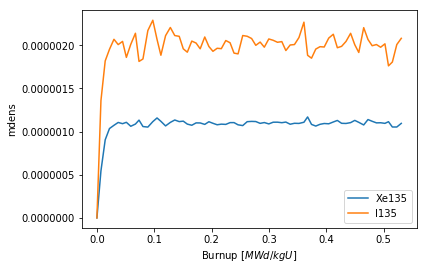
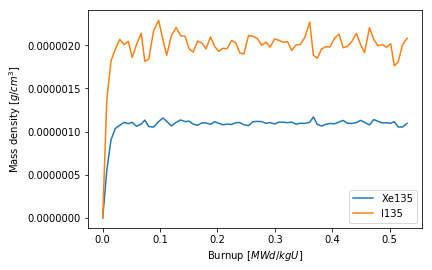
[ENH] Better axis-labeling for depletion plots (#182)
Using the units and quantities that the values in the depletion
output represent, e.g. adens -> atomic density [#/b-cm],
depletion-related plots now have better default axis
labels. This applies for plots on DepletedMaterial,
DepletionReader, and their sampled variants.

diff --git a/serpentTools/samplers/depletion.py b/serpentTools/samplers/depletion.py
@@ -10,7 +10,7 @@ from numpy import zeros, zeros_like
 from matplotlib import pyplot
 
 from serpentTools.messages import SamplerError, warning
-from serpentTools.plot import magicPlotDocDecorator
+from serpentTools.plot import magicPlotDocDecorator, formatPlot, DEPLETION_PLOT_LABELS
 from serpentTools.objects.materials import DepletedMaterialBase
 from serpentTools.parsers.depletion import DepletionReader, DepPlotMixin
 from serpentTools.samplers import Sampler, SampledContainer, SPREAD_PLOT_KWARGS
@@ -198,7 +198,7 @@ class SampledDepletedMaterial(SampledContainer, DepletedMaterialBase):
     @magicPlotDocDecorator
     def plot(self, xUnits, yUnits, timePoints=None, names=None, ax=None,
              sigma=3, xlabel=None, ylabel=None, logx=False,
-             logy=False, loglog=False, legend=False, labelFmt=None, **kwargs):
+             logy=False, loglog=False, legend=False, ncol=1, labelFmt=None, **kwargs):
         """
         Plot the average of some data vs. time for some or all isotopes.
 
@@ -229,6 +229,7 @@ class SampledDepletedMaterial(SampledContainer, DepletedMaterialBase):
         {logy}
         {loglog}
         {legend}
+        {ncol}
         {matLabelFmt}
         {kwargs} :py:func:`matplotlib.pyplot.errorbar`
 
@@ -269,15 +270,10 @@ class SampledDepletedMaterial(SampledContainer, DepletedMaterialBase):
             ax.errorbar(xVals, yVals[row], yerr=yUncs[row], xerr=xUncs,
                         label=labels[row], **kwargs)
 
-        # format the plot
-        if legend:
-            ax.legend()
-        ax = sigmaLabel(ax, xlabel or self.PLOT_XLABELS[xUnits],
-                        ylabel or yUnits, sigma)
-        if loglog or logx:
-            ax.set_xscale('log')
-        if loglog or logy:
-            ax.set_yscale('log')
+        ax = sigmaLabel(ax, xlabel or DEPLETION_PLOT_LABELS[xUnits],
+                        ylabel or DEPLETION_PLOT_LABELS[yUnits], sigma)
+        formatPlot(ax, legend=legend, ncol=ncol, loglog=loglog, logx=logx,
+                   logy=logy)
         return ax
 
     @magicPlotDocDecorator
@@ -339,13 +335,10 @@ class SampledDepletedMaterial(SampledContainer, DepletedMaterialBase):
             plotData = self._slice(sampledData[n], rows, cols)[0]
             ax.plot(xVals, plotData, **SPREAD_PLOT_KWARGS)
         ax.plot(xVals, primaryData, label='Mean value')
-        ax = sigmaLabel(ax, xlabel or self.PLOT_XLABELS[xUnits], ylabel or yUnits)
-        if loglog or logx:
-            ax.set_xscale('log')
-        if loglog or logy:
-            ax.set_yscale('log')
-        if legend:
-            ax.legend()
+
+        ax = sigmaLabel(ax, xlabel or DEPLETION_PLOT_LABELS[xUnits], 
+                        ylabel or DEPLETION_PLOT_LABELS[yUnits])
+        formatPlot(ax, legend=legend, logx=logx, logy=logy, loglog=loglog)
         return ax
 
 

diff --git a/serpentTools/parsers/depletion.py b/serpentTools/parsers/depletion.py
@@ -5,8 +5,8 @@ from numpy import array
 from matplotlib import pyplot
 from six import iteritems
 
+from serpentTools.plot import magicPlotDocDecorator, formatPlot, DEPLETION_PLOT_LABELS
 from serpentTools.utils import convertVariableName, str2vec
-from serpentTools.plot import magicPlotDocDecorator, formatPlot
 from serpentTools.engines import KeywordParser
 from serpentTools.objects.readers import MaterialReader
 from serpentTools.objects.materials import DepletedMaterial
@@ -21,10 +21,10 @@ METADATA_KEYS = {'ZAI', 'NAMES', 'BU', 'DAYS'}
 class DepPlotMixin(object):
 
     @magicPlotDocDecorator
-    def plot(self, xUnits, yUnits, timePoints=None, names=None, zai=None, 
+    def plot(self, xUnits, yUnits, timePoints=None, names=None, zai=None,
              materials=None, ax=None, legend=True, logx=False, logy=False, 
-             loglog=False, labelFmt=None, xlabel=None, ylabel=None, 
-             ncol=1, **kwargs):
+             loglog=False, labelFmt=None, xlabel=None, ylabel=None, ncol=1,
+             **kwargs):
         """
         Plot properties for all materials in this file together.
 
@@ -89,6 +89,7 @@ class DepPlotMixin(object):
             if mat not in self.materials:
                 missing.add(mat)
                 continue
+
             ax = self.materials[mat].plot(xUnits, yUnits, timePoints, names, 
                     zai, ax, legend=False, xlabel=xlabel, ylabel=ylabel, 
                     logx=False, logy=False, loglog=False, labelFmt=labelFmt, 
@@ -96,8 +97,10 @@ class DepPlotMixin(object):
         if missing:
             warning("The following materials were not found in materials "
                     "dictionary: {}".format(', '.join(missing)))
-        formatPlot(ax, legend=legend, xlabel=xlabel, ylabel=ylabel,
-                   logx=logx, logy=logy, loglog=loglog, ncol=ncol)
+        formatPlot(ax, legend=legend, ncol=ncol, logx=logx, logy=logy,
+                   loglog=loglog, xlabel=xlabel or DEPLETION_PLOT_LABELS[xUnits],
+                   ylabel=ylabel or DEPLETION_PLOT_LABELS[yUnits])
+
         return ax
 
 

diff --git a/serpentTools/objects/materials.py b/serpentTools/objects/materials.py
@@ -4,13 +4,12 @@ import numpy
 from matplotlib import pyplot
 
 from serpentTools.messages import warning, debug
-from serpentTools.plot import magicPlotDocDecorator, formatPlot
+from serpentTools.plot import magicPlotDocDecorator, formatPlot, DEPLETION_PLOT_LABELS
 from serpentTools.objects import NamedObject
 from serpentTools.utils import convertVariableName
 
 
 class DepletedMaterialBase(NamedObject):
-    PLOT_XLABELS = {'days': "Days", 'burnup': r"Burnup $[MWd/kgU]$"}
     docParams = """name: str
         Name of this material
     metadata: dict
@@ -331,7 +330,8 @@ class DepletedMaterial(DepletedMaterialBase):
             ax.plot(xVals, yVals[row], label=labels[row], **kwargs)
         
         ax = formatPlot(ax, loglog=loglog, logx=logx, logy=logy, ncol=ncol,
-                        xlabel=xlabel or self.PLOT_XLABELS[xUnits],
-                        ylabel=yUnits, title=title)
+                        xlabel=xlabel or DEPLETION_PLOT_LABELS[xUnits],
+                        ylabel=ylabel or DEPLETION_PLOT_LABELS[yUnits], 
+                        title=title, legend=legend)
         return ax
 

diff --git a/serpentTools/plot.py b/serpentTools/plot.py
@@ -97,6 +97,19 @@ PLOT_MAGIC_STRINGS = {'loglog': LOG_LOG, 'logy': LOGY, 'logx': LOGX,
         'univLabelFmt': UNIV_FMT_DOC,}
 """Magic strings that, if found as {x}, will be replaced by the key of x"""
 
+DEPLETION_PLOT_LABELS = {
+    'adens': r'Atom density $[\#/b-cm]$',
+    'mdens': r'Mass density $[g/cm^3]$',
+    'a': r'Activity $[Bq]$',
+    'h': r'Decay heat $[W]$',
+    'sf': r'Spontaneous fission rate $[\#/s]$',
+    'gsrc': r'Photon emission rate $[\#/s]$',
+    'ingTox': 'Ingestion toxicity $[Sv]$',
+    'inhTox': 'Inhalation toxicity $[Sv]$',
+    'days': 'Burnup $[d]$',
+    'burnup': 'Burnup $[MWd/kgU]$',
+    }
+
 
 def magicPlotDocDecorator(f):
     """

diff --git a/docs/examples/DepletionReader.rst b/docs/examples/DepletionReader.rst
@@ -232,23 +232,6 @@ or ``zai`` are not given.
 The |depMat| uses this slicing for the built-in |depMatPlot| method, 
 which takes similar slicing arguments to |getValues|.
 
-In addition, the ``labelFmt`` argument can be used to apply a consistent
-label to each unique plot. This argument supports `brace-delimited
-formatting <https://docs.python.org/3/library/stdtypes.html?#str.format>`__,
-and will automatically replace strings like ``{mat}`` with the name of
-the material. The table below contains the special strings and their
-replacements
-
-+-----------+--------------------------------------+
-| String    | Replacement                          |
-+===========+======================================+
-| ``{mat}`` | Name of the material                 |
-+-----------+--------------------------------------+
-| ``{iso}`` | Name of the isotope, e.g. ``'U235'`` |
-+-----------+--------------------------------------+
-| ``{zai}`` | ZZAAAI of the isotope, e.g. 922350   |
-+-----------+--------------------------------------+
-
 By default, the plot method will plot data for all isotopes present,
 leading to very busy plots. The plots can be cleaned up by passing
 isotope names or ``ZZAAAI`` identifiers to the ``names`` or ``zai``
@@ -257,8 +240,6 @@ arguments, respectively.
 .. code:: 
     
     >>> fuel.plot('burnup', 'ingTox', names='Xe135');
-
-
 
 .. image:: DepletionReader_files/DepletionReader_23_0.png
 
@@ -269,13 +250,25 @@ arguments, respectively.
 
 .. image:: DepletionReader_files/DepletionReader_24_0.png
 
-This type of plotting can also be applied to the |depReader| 
-:py:func:`~serpentTools.parsers.depletion.DepletionReader.plot` method
-, with similar options for formatting and retrieving data. The
+This type of plotting can also be applied to the |depMat|
+level, with similar options for formatting and retrieving data. The
 materials to be plotted can be filtered using the ``materials``
-argument.
-Here, the ``labelFmt`` argument is used to modify the labels
-for each plot.
+argument. The ``labelFmt`` argument can be used to apply a consistent
+label to each unique plot. This argument supports `brace-delimited
+formatting <https://docs.python.org/3/library/stdtypes.html?#str.format>`__,
+and will automatically replace strings like ``{mat}`` with the name of
+the material. The table below contains the special strings and their
+replacements
+
++-------------+----------------------------------------+
+| String      | Replacement                            |
++=============+========================================+
+| ``{mat}``   | Name of the material                   |
++-------------+----------------------------------------+
+| ``{iso}``   | Name of the isotope, e.g. ``'U235'``   |
++-------------+----------------------------------------+
+| ``{zai}``   | ZZAAAI of the isotope, e.g. 922350     |
++-------------+----------------------------------------+
 
 .. code:: 
     
@@ -325,7 +318,7 @@ with ``bglass`` followed by at least one integer.
     >>> rc['depletion.metadataKeys'] = ['BU']
     >>> rc['depletion.materialVariables'] = ['ADENS']
     >>> rc['depletion.materials'] = [r'bglass\d+']
-    >>> 
+
     >>> bgReader = serpentTools.parsers.DepletionReader(depFile)
     >>> bgReader.read()
 
